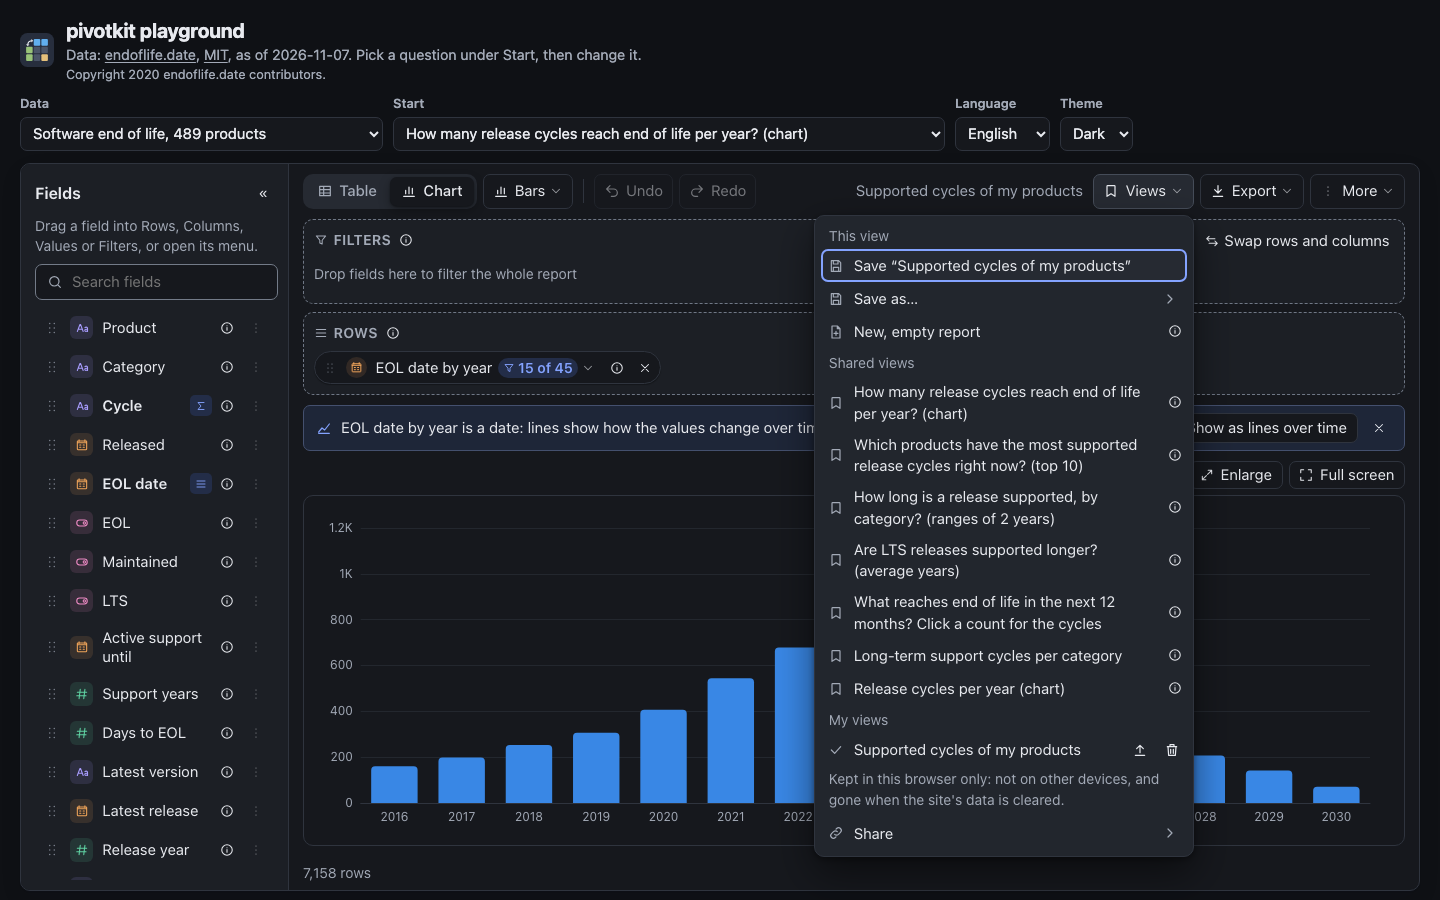
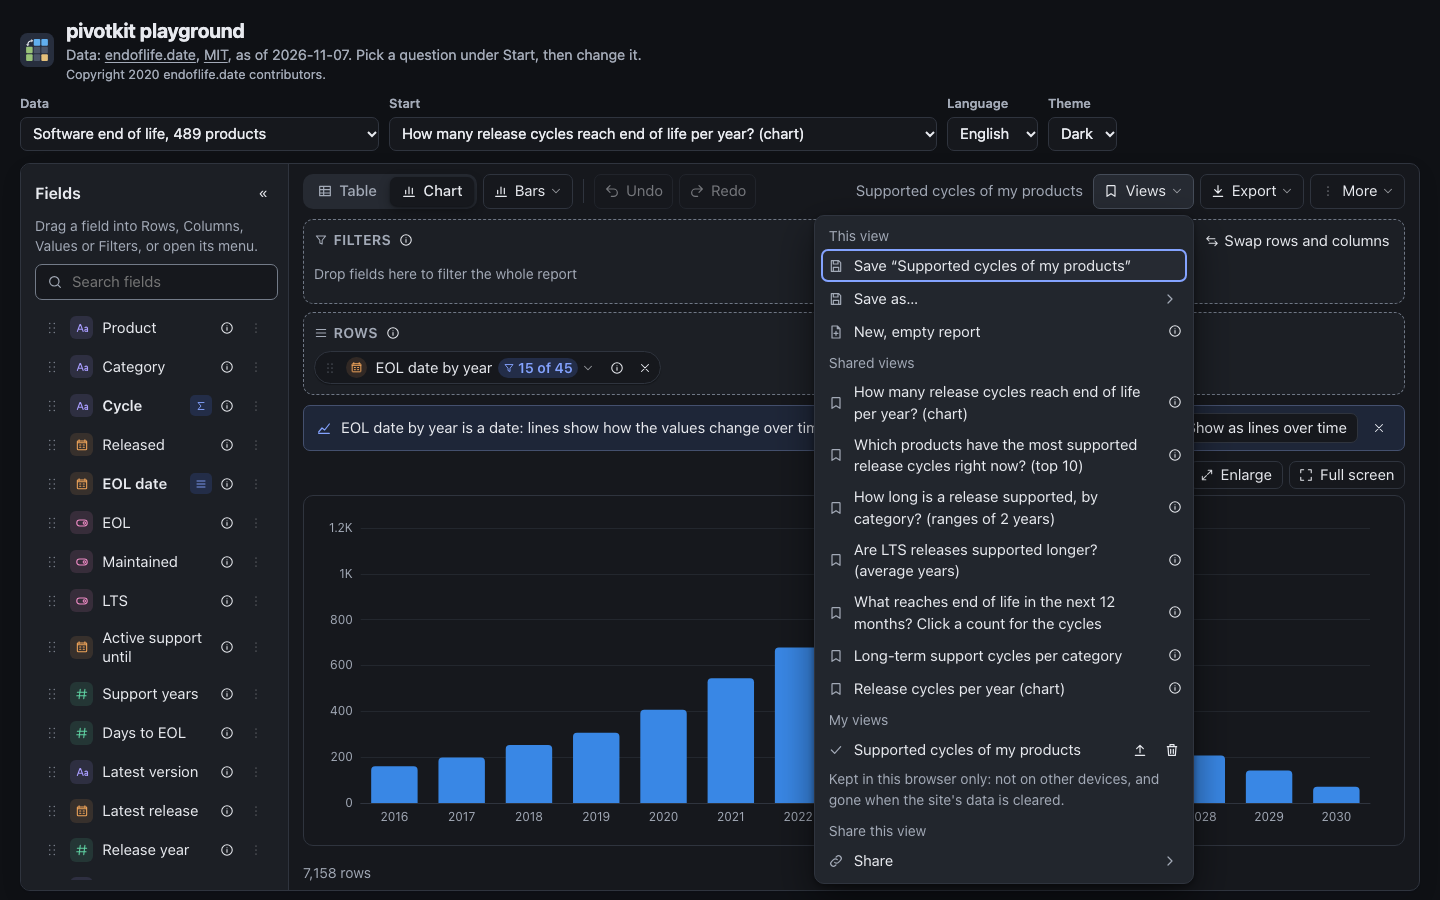
feat(react): group heading "Share this view" above the Views menu's Share row
The Share row sat at the bottom of the Views menu under This view, Shared
views and My views without a heading of its own and got lost. A topic of
kind "menu" or "panel" can now carry a `heading`: the first level draws it
as the titled inline topics draw theirs (pk-subtitle, a role="group"
labelled by it) above the row. New menu label `shareThisView` (en, de),
the docs page of the Views menu, the changelog and the views-menu
screenshot pair; the levels spec checks the heading in both languages.

Changed region(s): [[0.5625, 0.9022, 0.8438, 0.9644], [0.25, 0.1244, 0.5625, 0.1556], [0.6562, 0.0933, 0.7812, 0.1556]]

diff --git a/tests/browser/levels.spec.js b/tests/browser/levels.spec.js
@@ -189,6 +189,13 @@ test.describe("the search of a menu", () => {
 });
 
 test.describe("the Views menu in levels", () => {
+    test("German: the group heading above Share", async ({ page }) => {
+        await page.goto("?data=tickets&lang=de");
+        await toolbar(page, "views");
+        await expect(page.getByTestId("topic-title-share")).toHaveText("Diese Ansicht teilen");
+        await expect(page.getByRole("menu", { name: "Ansichten" }).getByRole("group", { name: "Diese Ansicht teilen" }).getByRole("menuitem", { name: "Teilen" })).toBeVisible();
+    });
+
     test("a flat list to scan; Save as… and Share open levels; an entry's Delete is reached by the arrow keys and asks in a level", async ({ page }) => {
         await page.goto("?data=tickets");
         await toolbar(page, "views");
@@ -203,8 +210,15 @@ test.describe("the Views menu in levels", () => {
               - menuitem "Median lead time by month"
               - menuitem "Open work per team (chart)"
             - group "My views"
-            - menuitem "Share"
+            - group "Share this view":
+              - menuitem "Share"
         `);
+        // the Share row under a group heading of its own, above it, marked up as the other headings
+        const shareHeading = page.getByTestId("topic-title-share");
+        await expect(shareHeading).toHaveText("Share this view");
+        await expect(shareHeading).toHaveClass(/pk-subtitle/);
+        await expect(page.getByTestId("topic-title-myViews")).toHaveClass(/pk-subtitle/);
+        expect(await shareHeading.evaluate((h) => h.compareDocumentPosition(document.querySelector('[data-testid="topic-share"]')) & Node.DOCUMENT_POSITION_FOLLOWING)).toBeTruthy();
         // no fold anywhere: every group is there at once
         await expect(page.locator(".pk-popover button.pk-section-title")).toHaveCount(0);
         // Save as… by keyboard: its level with the name field, saved with Enter

diff --git a/packages/pivotkit-react/src/menu-topics.js b/packages/pivotkit-react/src/menu-topics.js
@@ -32,10 +32,11 @@ import { TOTALS, filterState, measureChoices, ruleKind, setQuickRange, setRule, 
  * "panel" a row that opens a level with a form (the menu's component draws it, by the topic's id).
  * `state` is what is set, in short, on the row's right; `changed` marks a setting that is not the
  * default; `info` the id of an explanation next to the level's title. `hidden`: a level a choice
- * opens, with no row of its own (`levelTitle` its title); `note`: a line under its choices.
+ * opens, with no row of its own (`levelTitle` its title); `note`: a line under its choices;
+ * `heading`: a group heading above a "menu" or "panel" row on the first level, as an inline topic's title.
  * @typedef {{ id: string, title: string, kind: "segmented" | "inline" | "menu" | "panel",
  *   groups?: Array<{ title?: string, choices: Choice[] }>, state?: string | null, changed?: boolean,
- *   icon?: string, titled?: boolean, info?: string, hidden?: boolean, levelTitle?: string, note?: string | null, noteId?: string,
+ *   icon?: string, titled?: boolean, heading?: string, info?: string, hidden?: boolean, levelTitle?: string, note?: string | null, noteId?: string,
  *   keywords?: string, searchExtra?: Array<{ id: string, text: string, focus?: string, choice?: Choice }>,
  *   searchFor?: (query: string) => Array<{ id: string, text: string, focus?: string, choice: Choice }> }} Topic
  * `keywords`: more words the search finds the topic's entries by (a choice's own `keywords` put it

diff --git a/packages/pivotkit-react/src/levels.jsx b/packages/pivotkit-react/src/levels.jsx
@@ -308,7 +308,21 @@ function TopicFirst({ topic, labels, onPick, onOpen }) {
         return null;
     }
     if (topic.kind === "menu" || topic.kind === "panel") {
-        return <TopicRow topic={topic} labels={labels} onOpen={onOpen} />;
+        const row = <TopicRow topic={topic} labels={labels} onOpen={onOpen} />;
+        // a row under a group heading of its own ("Share this view" above Share), marked up as the
+        // titled inline topics are, so the row is not lost under the lists before it
+        return topic.heading ? (
+            <>
+                <div className="pk-subtitle" id={titleId} role="presentation" data-testid={`topic-title-${topic.id}`}>
+                    {topic.heading}
+                </div>
+                <div role="group" aria-labelledby={titleId}>
+                    {row}
+                </div>
+            </>
+        ) : (
+            row
+        );
     }
     const choices = topic.groups?.[0]?.choices ?? [];
     if (topic.kind === "segmented") {

diff --git a/packages/pivotkit-react/src/toolbar-panels.jsx b/packages/pivotkit-react/src/toolbar-panels.jsx
@@ -636,6 +636,8 @@ export function ViewsPanel({ templates, labels, onLoad, actions, close, share })
                   {
                       id: "share",
                       title: labels.share,
+                      // under a heading of its own, like the lists before it
+                      heading: labels.shareThisView,
                       kind: /** @type {const} */ ("menu"),
                       icon: "link",
                       groups: [

diff --git a/packages/pivotkit-react/src/menu-labels.js b/packages/pivotkit-react/src/menu-labels.js
@@ -345,7 +345,8 @@ export const en = {
     groupLabels: "Group labels under the axis",
     groupLabelNames: { auto: "Automatic", on: "On", off: "Off" },
     defaultName: "Use the default name",
-    // sharing a view (the Views menu)
+    // sharing a view (the Views menu): the group heading above the Share row, and the row
+    shareThisView: "Share this view",
     share: "Share",
     copyLink: "Copy link",
     copyJson: "Copy view as JSON",

diff --git a/packages/pivotkit-react/src/menu-labels-de.js b/packages/pivotkit-react/src/menu-labels-de.js
@@ -309,6 +309,7 @@ export const de = {
     groupLabels: "Gruppen unter der Achse",
     groupLabelNames: { auto: "Automatisch", on: "Ein", off: "Aus" },
     defaultName: "Standardnamen verwenden",
+    shareThisView: "Diese Ansicht teilen",
     share: "Teilen",
     copyLink: "Link kopieren",
     copyJson: "Ansicht als JSON kopieren",

diff --git a/docs/use/views.md b/docs/use/views.md
@@ -44,22 +44,23 @@ save, or when Undo brings the report back to the view as it was saved. While Vie
 ## The Views menu
 
 **Views** in the toolbar is one list to scan: **This view** (save and start over), then the saved
-reports in two groups, then **Share**. Each entry loads its view with one click; the first three are
-also offered in the empty report. The view you loaded has a check mark in its group. **Save as…**
+reports in two groups, then **Share this view** with its one entry, **Share**. Each entry loads its
+view with one click; the first three are also offered in the empty report. The view you loaded has a check mark in its group. **Save as…**
 (**Save current view…** before a view is loaded), **Share** and the questions before a delete or a
 publish open a level of their own in the menu's place, titled "Views › Share" and so on; **‹ Back** or
 Escape goes back to the entry it came from. The keys are those of the other menus
 ([keyboard](keyboard.md#keys)): the arrow keys move through the list, Enter loads a view or opens a
 level, Tab closes the menu.
 
-![The Views menu: This view, Shared views, My views with a saved view and the note where it is kept, Share](../assets/screenshots/views-menu-light.png#only-light)
-![The Views menu: This view, Shared views, My views with a saved view and the note where it is kept, Share](../assets/screenshots/views-menu-dark.png#only-dark)
+![The Views menu: This view, Shared views, My views with a saved view and the note where it is kept, Share this view with Share](../assets/screenshots/views-menu-light.png#only-light)
+![The Views menu: This view, Shared views, My views with a saved view and the note where it is kept, Share this view with Share](../assets/screenshots/views-menu-dark.png#only-dark)
 
 | Group | What |
 | --- | --- |
 | **This view** | **Save “…”** for the view you loaded, **Save current view…** (**Save as…** once a view is loaded), which opens the name field, and **New, empty report**. |
 | **Shared views** | The same for everyone who uses the report: the views the application provides. Where someone can change them, an **i** next to one says who (by default "Only admins can change shared views."). |
 | **My views** | Your own. **Save current view…** saves the report under a name; your views can be deleted, and published for everyone where the application allows it. |
+| **Share this view** | One entry, **Share**, which opens the level of [Share a view](#share-a-view). |
 
 A group without entries is not shown; My views shows while you can save.
 
@@ -133,7 +134,7 @@ could not be deleted: the views were changed in another tab; open the menu again
 ![The Share level of the Views menu: Copy link, Copy view as JSON, Download view, Load view and what a view gives away](../assets/screenshots/share-menu-light.png#only-light)
 ![The Share level of the Views menu: Copy link, Copy view as JSON, Download view, Load view and what a view gives away](../assets/screenshots/share-menu-dark.png#only-dark)
 
-**Share**, the last entry of the Views menu, opens its level:
+**Share**, the last entry of the Views menu (under the heading **Share this view**), opens its level:
 
 | Entry | Gives |
 | --- | --- |

diff --git a/packages/pivotkit-react/CHANGELOG.md b/packages/pivotkit-react/CHANGELOG.md
@@ -93,6 +93,8 @@ All notable changes to `pivotkit-react` are documented in this file. The format 
   Load view…) and the questions before a delete, a publish or a Save over a shared view open levels of
   their own. An entry's Publish and Delete are items next to it, reached by the arrow keys; after a
   delete the focus goes to the entry that takes its place.
+- The Views menu's **Share** row sits under a group heading of its own, **Share this view** (German
+  "Diese Ansicht teilen"), like This view, Shared views and My views, so it is not lost under the lists.
 - No menu folds any more: the chart type menu (its Display settings shown at once) and the Export
   menus are flat lists in titled groups. The folding (`SECTIONS`, `open:<section>` and
   `closed:<section>` in the tips' list) and **Reset menu sections** are gone; a stored state of a
@@ -111,7 +113,7 @@ All notable changes to `pivotkit-react` are documented in this file. The format 
   its first "i", whose explanation opened over the entries; the menu takes the focus itself.
 - Text fields, searches and selects in the menus have an edge of 3:1 contrast in both themes: the new
   token `--pk-input-border`.
-- Labels of the menus (a host's `labels` for them): new `back`, `backTo`, `levelTitle`, `searchMenu`,
+- Labels of the menus (a host's `labels` for them): new `shareThisView`, `back`, `backTo`, `levelTitle`, `searchMenu`,
   `searchMenuShort`, `searchResults`, `searchNothing`, `sortByValue`, `sortOldestShort`,
   `sortNewestShort`, `filterTopic`, `filterAll`, `groupTopic`, `groupNoneShort`, `off`,
   `moveToTitle`, `topOwn`, `binsOff`, `itemsPicked`, `valueConditionTitle`, `keepWhose`,
